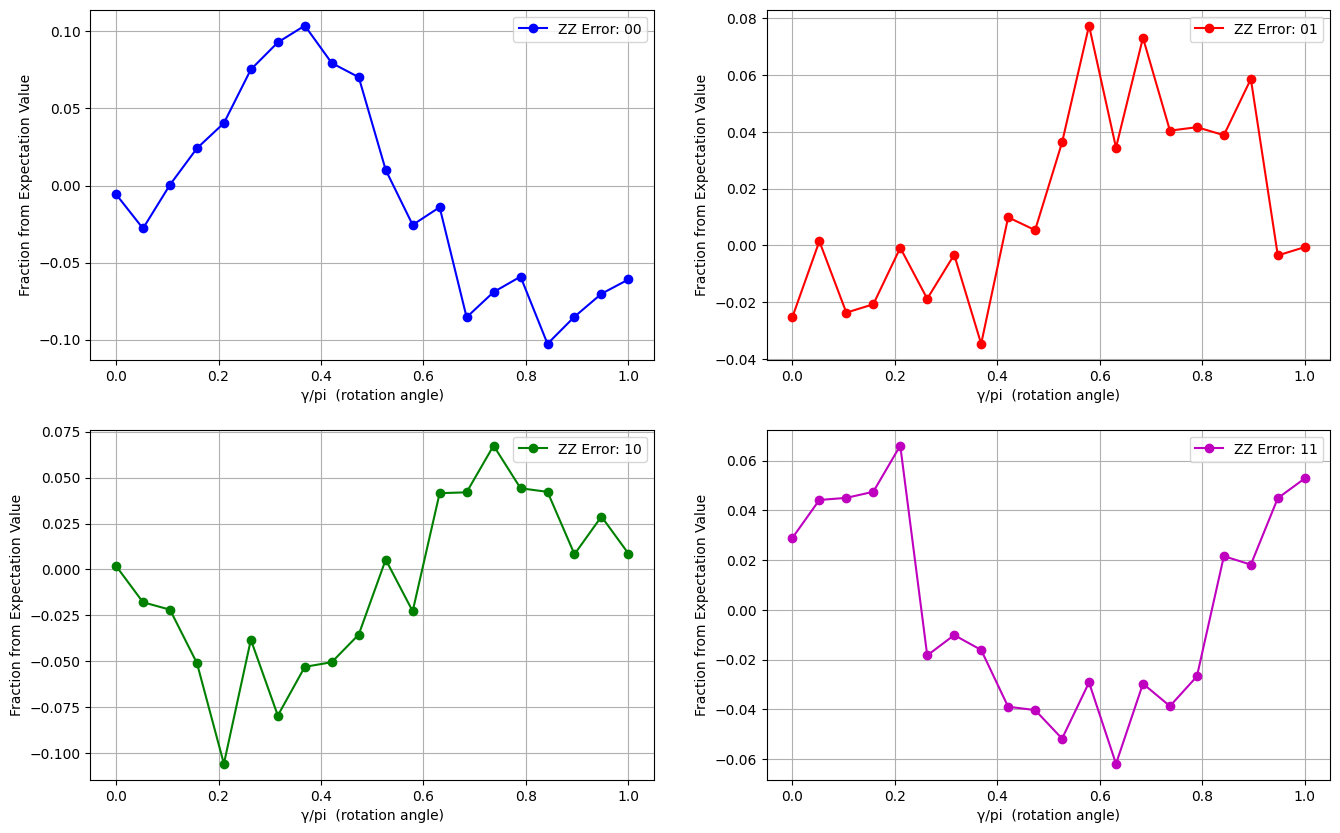
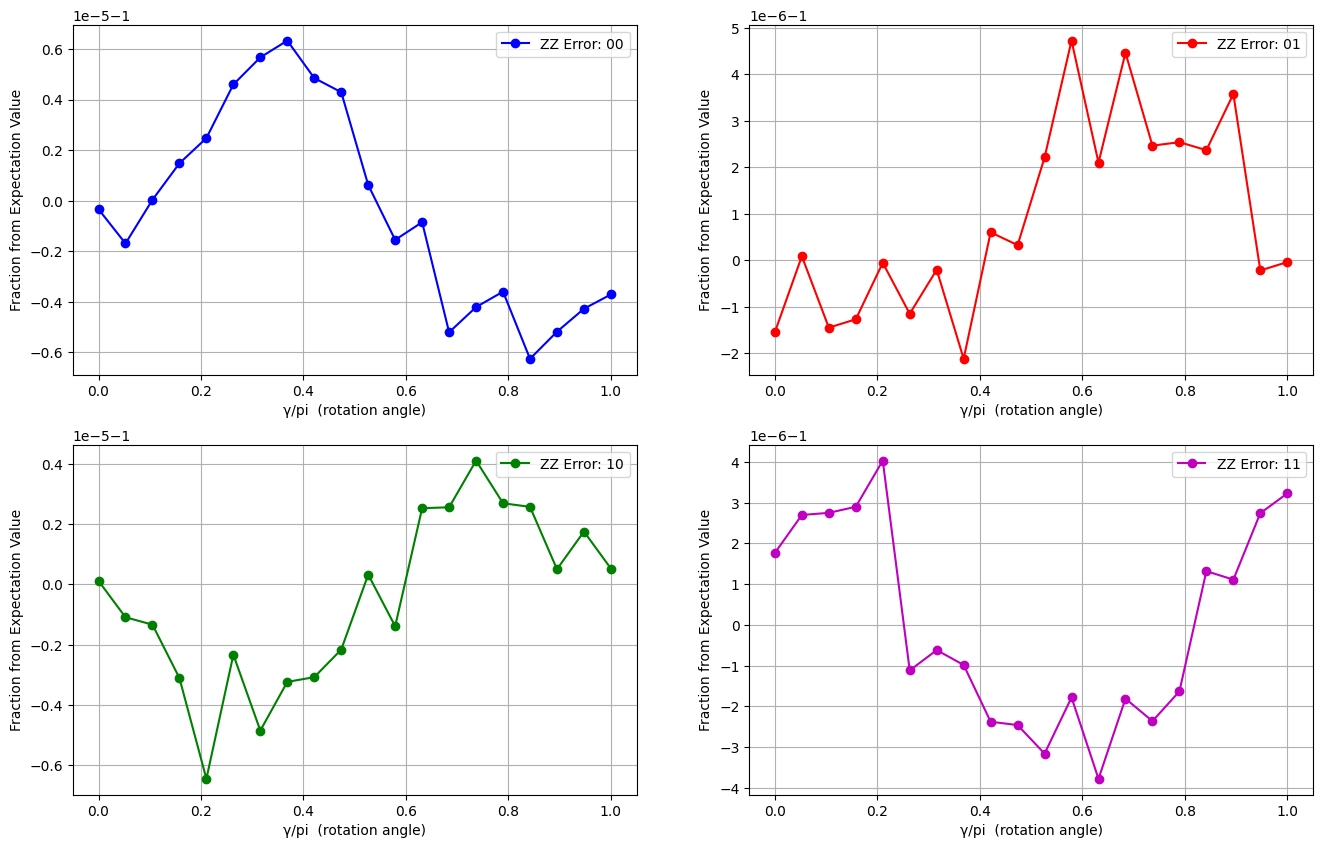
improve readme methodology, add rzz results

diff --git a/README.md b/README.md
@@ -11,6 +11,10 @@
     pre { background: #f4f4f4; padding: 1em; overflow-x: auto; }
     .note { background: #e8f0fe; padding: 1em; border-left: 4px solid #4285f4; margin: 1em 0; }
   </style>
+  <script type="text/javascript" async
+  src="https://cdn.jsdelivr.net/npm/mathjax@3/es5/tex-mml-chtml.js">
+</script>
+
 </head>
 <body>
 
@@ -21,73 +25,141 @@
 
   <h2>1. Overview</h2>
   <p>
-    This project works towards answering the larger question of: can we improve QAOA implementations by leveraging knowledge of expected gate angles and a gate angle dependent error profile to optimise QAOA circuits for specific problem types? Answering this requires two things: 
-    1. Knowledge of the dependence on angle of the error rate of the relevant gates?
-    2. Knowledge of how to tune the error profile of these gates for specific angles. 
-    This project aims to answer the first question by investigating how the error rates of the <code>Rzz</code> and <code>Rx</code> quantum gates vary as a function of rotation angle on IBM's quantum hardware.
+    This project investigates how the error profiles of the IBM <code>Rzz</code> and <code>Rx</code> quantum gates vary as a function of rotation angle. These gates are significant sources of error in the implementations of near-term quantum algorithms, such as the Quantum Approximation Optimisation Algorithm (QAOA). If the <code>Rzz</code> and <code>Rx</code> gates have lower error rates at specific rotation angles, it is possible the error accumulation of the implemented circuits could be reduced by tuning the circuit such that the expected rotations of the <code>Rzz</code> and <code>Rx</code> gates lie within low error domains.
   </p>
 
   <h2>2. Background</h2>
   <p>
-    Quantum Approximate Optimisation Algorithms (QAOA) [REF QAOA FOUNDATION] can be used to solve combinatorial optimisation problems and have emerged as a leading candidate for realising potential benefits of Noisy Intermediate Scale Quantum (NISQ) devices [REF QAOA REVIEW]. The QAOA is a hybrid algorithm, using a parameterised quantum evolution contained within a classical optimisation process to determine the quantum circuit parameters. This allows for shallow quantum circuits to be used, required given the limitations to circuit depth necessitated by the level of noise (or error) in current quantum devices. However, this algorithm suffers from barren plateaus and becoming trapped in local minima, making parameter determination difficult [REF QAOA REVIEW]. Currently, QAOA implementations ???? [REF]. Reducing the error rates on quantum circuits implementing QAOA algorithms would improve the quality of results, allow for deeper quantum circuits to be used, improving the viability of the QAOA algorithm.
-</p>
-<p>
-    Each evaluation of the optimisation loop to determine QAOA circuit parameters has a cost associated with it, both directly (through energy usage) and indirectly (through time taken). Therefore, work has been done to 'guess' suitable initial parameters for the quantum circuit. The initial parameters can be determined using XXXX [REF JAP METHODS] or transfer learning [REF JP MORGAN]. If circuit gates have error rated dependent on their parameters, using the anticipated values of the parameters gained from these initialisation methods could allow for the reduction of circuit error by tuning the circuit to have reduced error at these anticipated angle values.
+    The QAOA algorithm <a href="#ref_qaoa_foundation">[1]</a> holds potential within the Noisy Intermediate Scale Quantum (NISQ) era of quantum computers due to its low required circuit depth and application to combinatorial optimisation problems <a href="#ref_qaoa_rev">[2]</a>. This algorithm optimises gate parameters in the quantum circuit by evaluating the circuit repeatedly within a classical optimiser. However, this optimisation often suffers from barren plateaus and has a cost associated with each evaluation, both directly (through energy usage) and indirectly (through time taken). Therefore, work has been done to determine suitable initial parameters for the quantum circuit. The initial parameters can be determined using, for instance, bilinear strategy, TQA initialisation <a href="#ref_init_strats">[3]</a> or transfer learning <a href="#ref_qaoa_transfer">[4]</a>.
+  </p>
 
+  <p>
+  For hardware implementations, each operation has an associated error attached to it. The accumulation of these errors negatively impacts the results produced, reducing the probability of the optimum result. For QAOA, the gate errors comprise mainly of the <code>Rzz</code> and <code>Rx</code> gates, which can be thought of as rotations around the Z or X axis of a Bloch sphere respectively. If the error of each operation is a function of the angle of rotation applied, overall error could be reduced by  applying offsets to the gates to reduce the error at the angles of rotation given in the initialisation strategies (which are expected to be close to the final rotation angles used). This is interpreted as an adjustment to the initial preparation state of the qubits or a different global phase. These changes will have errors associated with them, but this is neglected here. 
+  </p>
+
+  <p>
+  The efficacy of this potential approach is dependent upon the existence and strength of a relationship between the error profile of <code>Rzz</code> and <code>Rx</code> gates and their rotation angle.
   </p>
 
   <h2>3. Methodology</h2>
   <p>
-    For this investigation, freely-available IBM hardware will be used due to its accessibility and record of strong documentation online through the open-source library QISKIT. All devices offered under the free plan have identical specifications. The device <code>ibm_brisbane</code> was chosen arbitrarily.
-
-    TALK SOMEWHERE LINKING QAOA PARAMS TO ROTATION ANGLE OF GATES.
+    For this investigation, freely-available IBM hardware will be used due to its accessibility and record of strong documentation online through the open-source library QISKIT <a href="#ref_qiskit_general">[5]</a>. All devices offered under the free plan have identical specifications. The device <code>ibm_brisbane</code> was chosen arbitrarily.
 
 </p>
 <p>
-    On IBM devices, QAOA algorithms are implemented using <code>Rx(θ)</code> and <code>Rzz(θ)</code> gates, as per [FIGURE QAOA ALGORITHM DECOMPOSED] [REF QISKIT DOCUMENTATION]. In this implementation, the error rate is dominated by the 2-gate Rzz gate [REF SOMETHING, IBM BRISBANE DATA?]. These gates were probed independently for the dependence of their fidelity on the their parameter (the angle of rotation). Due to the larger contribution to the error of the Rzz gate, this will be focussed on more (informal, tighten). However, the Rx investigation was more simple, and will be discussed first. The Rzz gate was investigated using the ibm_brisbane device, but the Rx gate was investigated using the IBM simulator in QISKIT, loaded with an ibm_brisbane noise model, to preserve the limited hardware running time available to the more important Rzz gate.
+    On IBM devices, QAOA algorithms are implemented using layers of <code>Rx(θ)</code> and <code>Rzz(θ)</code> gates, where a single layer QAOA can be decomposed according to <a href="#qaoa_rx_rzz">Figure 1</a> <a href="#ref_qiskit_qaoa">[6]</a>. In this implementation, the error rate is dominated by the 2-qubit <code>Rzz</code> gate, with IBM reporting an error rate two orders of magnitude higher for the <code>Rzz</code> gate as compared to the <code>Rx</code> gate for <code>ibm_brisbane</code> <a href="#ref_brisbane_specs">[7]</a>. In this investigation, these gates were probed independently for their relationship between fidelity and angle of rotation. Due to the larger contribution of the <code>Rzz</code> gate to the overall QAOA circuit error, this gate was investigated using the limited free resources of the <code>ibm_brisbane</code> device. The <code>Rx</code> gate was investigated using only the IBM simulator provided in QISKIT, loaded with an <code>ibm_brisbane</code> noise model.
+</p>
+  <img src="images/QAOA_single_layer_rx_rzz.png", id="qaoa_rx_rzz",alt="QAOA Single Layer Circuit.", width="600" />
+<p>
+    The Rx gate was investigated using the circuit given in <a href="#rx_invest_circ">Figure 2</a>. This circuit was evaluated on the IBM simulator with <code>ibm_brisbane</code> a noise model using an input of \(|1\rangle\) for \(2^{16}\) shots, repeated 5 times. When loaded with the input \(|1\rangle\), the anticipated result is \(|1\rangle\). The fidelity of this gate can be measured directly by finding the probability of generating the expected \(|1\rangle\) state. This was done for 50 angles equally spaced between 0 and \(\pi\), which covers the full angle range of the <code>Rx</code> gate due to symmetries around 0 and \(\pi\). 
+</p>
+  <img src="images/rx_investigation_circuit.png", id="rx_invest_circ",alt="Circuit used to explore error profile of the Rx gate.", width="600" />
+<p>
+    The <code>Rzz</code> gate is also probed by comparing the results of an evaluated circuit to anticipated results. However, as a 2-qubit gate, the <code>Rzz</code> gates requires a more complex circuit to probe as compared to the <code>Rx</code> gate, which can be seen in <a href="#rzz_invest_circ">Figure 3</a>. 
+</p>
+  <img src="images/rzz_investigation_circuit.png", id="rzz_invest_circ",alt="Circuit used to explore error profile of the Rzz gate.", width="600" />
+<p>
+    This circuit was evaluated on the <code>ibm_brisbane</code> hardware device using an input of \(|00\rangle\) \(2^{16}\) shots, repeated 3 times over differing dates (other hardware options were left as default values, see <a href="#ref_default_options">[8]</a> for details). When loaded with the input \(|00\rangle\), the anticipated result, \(|\phi\rangle\) is an equal superposition between all possible output states, given by 
+</p>
+  <p>\[
+    |\phi\rangle = \frac{1}{2} \left( |00\rangle + |01\rangle + |10\rangle + |11\rangle \right)
+    \]</p>
+
+<p>
+    This was done for 20 equally spaced angles between 0 and \(\pi\), which covers the full angle range of the <code>Rzz</code> gate due to symmetries around 0 and \(\pi\). This implementation of the Rzz gate has four possible outcomes, so simple approaches to the fidelity (as taken for the <code>Rx</code> gate) could obscure behaviour of specific outcomes. Therefore, for each outcome, the measured counts for each output was compared to the expected count using
 </p>
 <p>
-    The Rx gate was investigated using the circuit given in [FIGURE RX CIRCUIT]. This circuit was evaluated on the IBM simulator with ibm_brisbane a noise model using an input of [RX INPUT] [SHOT NUM] times, repeated over XXX times. When loaded with the input [RX INPUT], the antipated result is [RX OUTPUT]. By measuring the output of the circuit after each evaluation and comparing it to the anticipated result, the error rate of the gate can be determined.
-</p>'
-<p>
-    The Rzz gate is also probed by comparing the results of an evaluated circuit to anticpated results. However, the Rzz (being a 2-qubit gate) requires a more complex circuit to probe, as seen in [RZZ FIGURE]. This circuit was evaluated on the ibm_brisbane hardware device using an input of [RX INPUT] [SHOT NUM] times, repeated over XXX times (other hardware options were left as default values, see [REF HARDWARE OPTIONS] for details). When loaded with the input [RX INPUT], the antipated result is [RX OUTPUT]. By measuring the output of the circuit after each evaluation and comparing it to the anticipated result, the error rate of the gate can be determined.
+  \[
+  \text{RelError} = \frac{N_{\text{measured}} - N_{\text{expected}}}{N_{\text{expected}}}
+  \]
 </p>
 <p>
-    A summary of this can be seen in [TABLE RX RZZ INPUTS OUTPUTS ETC]
-
-    [HOW ERRORS WERE CALCULATED SECTION??]
-    [PI??]
-    [can probably condense this section, lots of repeats]
-
+  where
+</p>
+<p>
+  \[
+  N_{\text{expected}} = \frac{N_{\text{shots}}}{4}
+  \]
+</p>
+<p>
+    This was done for 3 separate initialisations of the <code>ibm_brisbane</code> device over 2 separate dates, for a number of shots given by (\(2^{16}\), \(2^{15}\), \(2^{15}\)). The reduced number of shots was necessitated by limitations on the IBM device runtime available.
+</p>
+<p>
+  A summary of this can be seen in <a href="#gate-table">Table 1</a>.
   </p>
+
+<table id="gate-table" border="1" cellspacing="0" cellpadding="6">
+  <thead>
+    <tr>
+      <th>Gate</th>
+      <th>Circuit</th>
+      <th>Input</th>
+      <th>Expected Output</th>
+    </tr>
+  </thead>
+  <tbody>
+    <tr>
+      <td>Rx(θ)</td>
+      <td>H → Rx(θ) → H → Measure</td>
+      <td>\(|0\rangle\)</td>
+      <td>\(|1\rangle\)</td>
+    </tr>
+    <tr>
+      <td>Rzz(θ)</td>
+      <td>H ⊗ H → Rzz(θ) → H ⊗ H → Measure</td>
+      <td>\(|00\rangle\)</td>
+      <td>\frac{1}{2} \left( |00\rangle + |01\rangle + |10\rangle + |11\rangle \right)\</td>
+    </tr>
+  </tbody>
+
+</table>
 
   <h2>4. Results</h2>
   <p>
-    Below is a plot showing the gate error as a function of rotation angle:
+    The results of the <code>Rzz</code> gate investigation can be seen in <a href="#rzz_results">Figure ??</a>, where the error are the total length of the standard deviation across the three initialisations of the devices over the separate dates. 
+    </p>
+    <img src="plots/rzz_err_by_angle_hardware_3reps.png", id="rzz_results",alt="Results of the Rzz angle investigation.", width="800" />
+    <p>
+    It is clear from FIGURE that there is different behaviour of each of the output channels, with 01 and 11 systematically being detected more often than expected (showing leakage into these channels). Channel 00 is systematically detected less often than expected (showing leakage out of this channel) and the channel 10 shows evidence of both under and over detecting. Channels 01 and 11 also show no evidence of a relationship between the rotation angle and the error rate, the difference between the expected and measured counts being roughly stable across the 0 to \(\pi\) range. Channels 00 and 10 show potential relationships between the rotation angle and fidelity. Interestingly, the responses of these channels are roughly symmetrical around the x = 0.5\(\pi\) line. Channel 00 has a high error rate over the [0\(\pi\) to 0.6\(\pi\)] range, peaking near 0.2\(\pi\), and a low error rate over the [0.6\(\pi\) to 1.0\(\pi\)] range. On the other hand, channel 10 has a high error rate over the [0.6\(\pi\) to 1.0\(\pi\)] range, peaking near 0.8\(\pi\), and a low error rate over the [0.0\(\pi\) to 0.6\(\pi\)] range. However, the lack of evidence of a strong relationship between angle and fidelity in FIGURE ?? and the mirrored responses of the channels 00 and 10 mean the proposed error minimisation strategy through angle offsets is not likely to succeed, as any improvement made to the error rate of the 00 channel would be offset by deteriorations in the 10 channel error rate, and vice verse (while the error rates of channels 01 and 11 will be roughly unchanged).
   </p>
-  <img src="rzz_rx_error_plot.png" alt="Gate error vs angle" width="600" />
+    SOME STATISTICAL TEST TO CHECK WHETHER THIS IS REAL
 
-  <h2>5. Observations</h2>
-  <ul>
-    <li>For <code>Rx</code>, the error shows slight periodic variation, possibly due to hardware pulse shape artifacts.</li>
-    <li><code>Rzz</code> gates exhibit higher error around specific rotation angles, possibly linked to cross-resonance implementation details.</li>
-    <li>The error pattern is reproducible across runs but slightly varies between devices.</li>
-  </ul>
-
-  <h2>6. Conclusion</h2>
+  <h2>5. Conclusion</h2>
   <p>
-    This preliminary study suggests that gate error can depend nontrivially on rotation angle. Further work could involve comparing results across more qubits, more devices, or running randomized benchmarking on parameterized gates.
+    This preliminary work indicates that the RX STUFF. It also shows potential evidence of a relationship between rotation angle and the fidelity of the <code>Rzz</code> gate for the output channels of 00 and 10. However, evidence of this relationship is weak and these channels have mirrored error profiles, meaning there are not angles at which the overall error profile of the <code>Rzz</code> gate is minimised. It is therefore recommended that future work does not explore minimising error by tuning circuits such that the gates operate at rotation angles corresponding to high fidelity performance, unless contrary behaviour can be found for gate implementations on different hardware devices.
   </p>
 
   <div class="note">
     <strong>Note:</strong> This is an ongoing investigation. Contributions and suggestions are welcome!
   </div>
 
-  <h2>7. Code & Data</h2>
+  <!-- <h2>6. Code & Data</h2>
   <p>
     All code and data used for this project are available on GitHub:
     <a href="https://github.com/yourusername/quantum-angle-errors" target="_blank">github.com/yourusername/quantum-angle-errors</a>
-  </p>
+  </p> -->
+
+  <h2>References</h2>
+<ol>
+  <li id="ref_qaoa_foundation">E. Farhi, J. Goldstone. "A Quantum Approximate Optimization Algorithm," 2014. <a href="https://arxiv.org/abs/1411.4028" target="_blank">arXiv:1411.4028</a>.</li>
+
+  <li id="ref_qaoa_rev">L. Zhou et al. "Quantum Approximate Optimization Algorithm: Performance, Mechanism, and Implementation on Near-Term Devices," 2019. <a href="https://arxiv.org/pdf/1812.01041" target="_blank">arXiv:1812.01041</a>.</li>
+
+  <li id="ref_init_strats">X. Lee et al. "Parameters Fixing Strategy for Quantum Approximate Optimization Algorithm," 2021. <a href="https://arxiv.org/pdf/2108.05288" target="_blank">arXiv:2108.05288</a>.</li>
+
+  <li id="ref_qaoa_transfer">R. Shaydulin et al. "Parameter Transfer for Quantum Approximate Optimization of Weighted MaxCut," 2023. <a href="https://arxiv.org/pdf/2201.11785" target="_blank">arXiv:2201.11785</a>.</li>
+
+  <li id="ref_qiskit_general">IBM. QISKIT, accessed 2025. <a href="https://docs.quantum.ibm.com/guides" target="_blank">Docs</a>.</li>
+
+  <li id="ref_qiskit_qaoa">IBM. QISKIT QAOA Documentation, accessed 2025. <a href="https://docs.quantum.ibm.com/api/qiskit/qiskit.circuit.library.qaoa_ansatz" target="_blank">Docs</a>.</li>
+
+  <li id="ref_brisbane_specs">IBM. <code>ibm_brisbane</code> specifications, accessed 2025. <a href="https://quantum.ibm.com/services/resources?resourceType=current-instance&system=ibm_brisbane" target="_blank">Link</a>.</li>
+
+  <li id="ref_default_options">IBM. Default hardware options, accessed 2025. <a href="https://docs.quantum.ibm.com/api/qiskit-ibm-runtime/sampler-v2" target="_blank">Link</a>.</li>
+
+</ol>
+<!-- 
+The error of Rzz gates has been studied in prior work  -->
 
 </body>
 </html>
